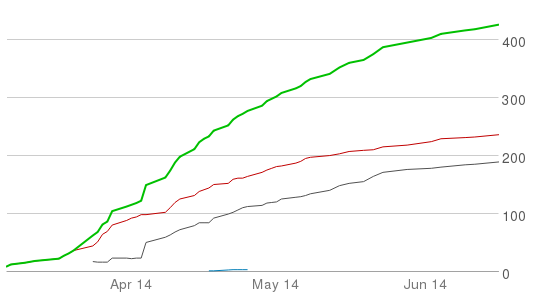
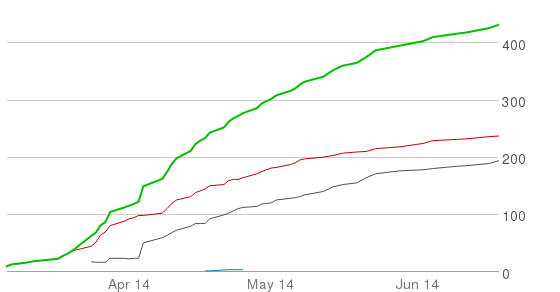
2014-06-28 - one case in NC: https://twitter.com/CPHOEP/status/479328431608692736

diff --git a/index.html b/index.html
@@ -113,7 +113,8 @@
 		</script>
 		
 		<p>The first case of mumps detected in Franklin County was January 7, with the first case at OSU detected February 10.</p>
-		<p>At Ohio State University, the virus has affected 149 students, 30 staff members, three family members, and 51 with strong ties to the university community, with 85.2 percent of affected OSU-affiliated persons living in Columbus. Ohio patients include 257 females and 162 males in central Ohio, from four months to 80 years of age. Cases include residents in Columbus and Athens, Belmont, Cincinnati, Clark, Cuyahoga, Delaware, Fairfield, Franklin, Hamilton, Licking, Madison, Morrow, Muskingum, Pickaway, Ross and Warren counties, and one case in Indiana.<sup><a href="http://columbus.gov/Templates/Detail.aspx?id=69188">1</a></sup></p>
+		<p>At Ohio State University, the virus has affected 152 students, 30 staff members, three family members, and 53 with strong ties to the university community, with 85.2 percent of affected OSU-affiliated persons living in Columbus. </p>
+		<p>Ohio patients include 265 females and 168 males in central Ohio, from four months to 80 years of age. Cases include residents in Columbus and Athens, Belmont, Cincinnati, Clark, Cuyahoga, Delaware, Fairfield, Franklin, Hamilton, Licking, Madison, Morrow, Muskingum, Pickaway, Ross and Warren counties. The outbreak has affected one person in Indiana and one person in North Carolina.<sup><a href="https://twitter.com/CPHOEP/status/479328431608692736">1</a></sup></p>
 		<p>Three to four cases have been reported at Columbus State Community College.<sup><a href="http://www.nbc4i.com/story/25300367/mumps-outbreak-grows-to-253-cases">2</a></sup> Cases have been reported in six<sup><a href="http://www.nbc4i.com/story/25322507/mumps-outbreak-grows-to-269-cases">3</a></sup> Olentangy Local Schools, leading school officials to tell students without the vaccine and with compromised immune systems to stay home.<sup><a href="http://www.dispatch.com/content/stories/local/2014/04/18/olentangy-students-without-mumps-vaccine-must-stay-home-for-25-days.html">4</a></sup> One member of the Ohio House staff has been diagnosed with mumps.<sup><a href="http://dispatchpolitics.dispatch.com/content/blogs/the-daily-briefing/2014/05/05-05-14-house-mumps.html">5</a></sup> One case each has been diagnosed at J.W. Reason Elementary, Brown Elementary and Hilliard Bradley High School in Hilliard.<sup><a href="http://www.dispatch.com/content/stories/local/2014/05/12/Hilliard-schools-warns-parents-about-mumps-cases.html">6</a></sup></p> 
 		<p>Local patients have had the following complications:</p>
 		<p><ul>
